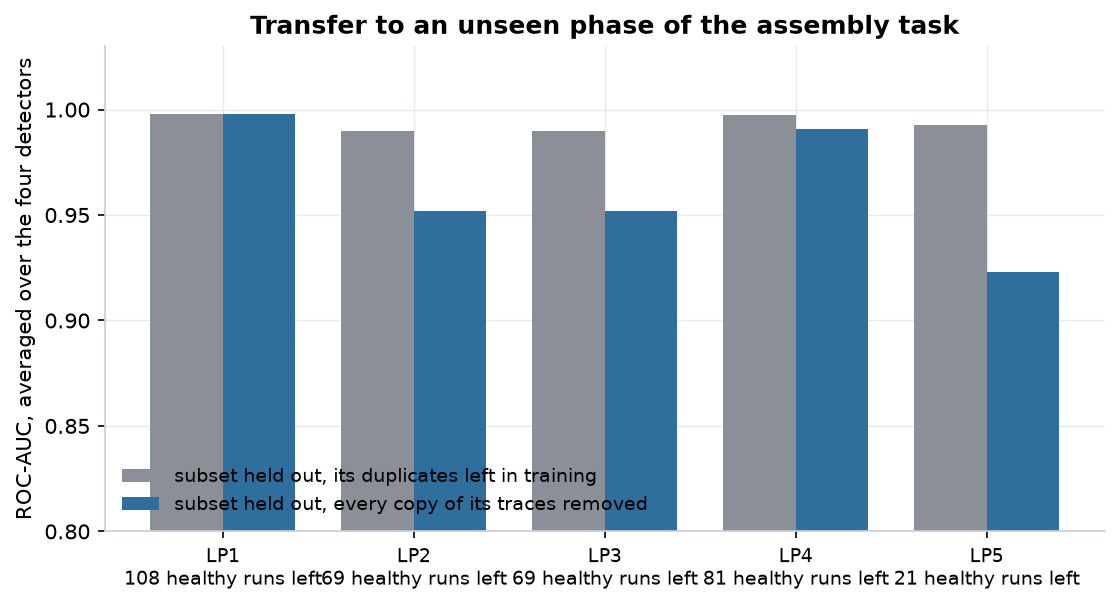
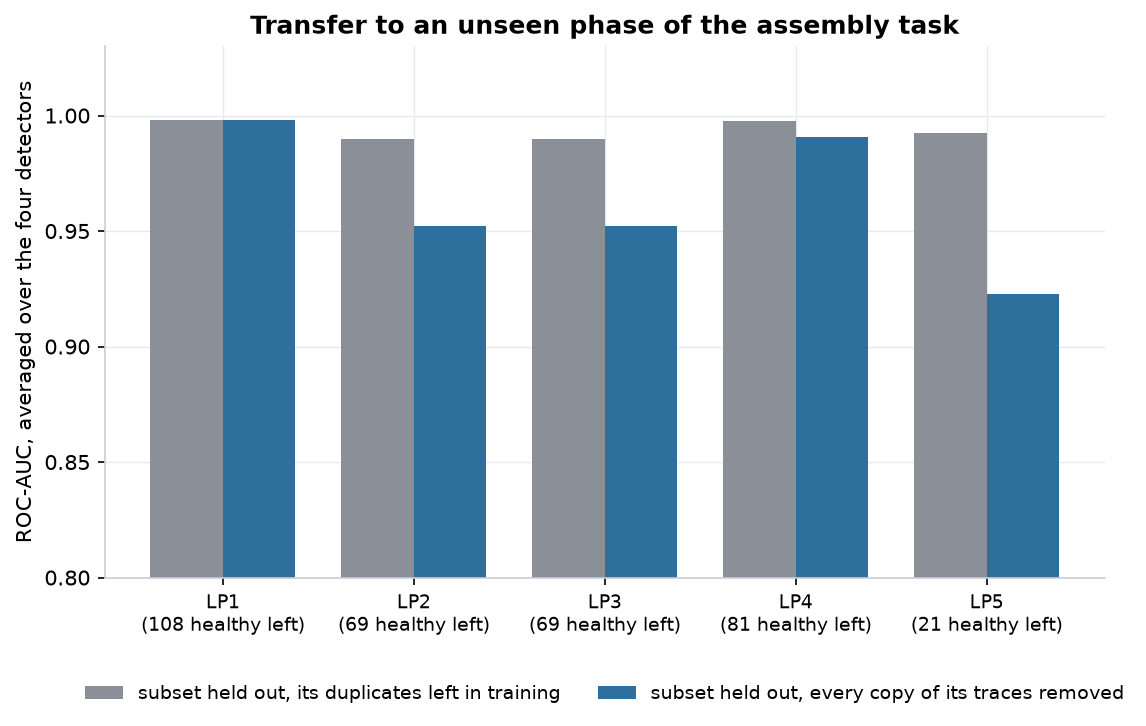
fix(figures): la courbe ROC ne montrait rien, remplacée par ce qui explique le résultat
Les quatre détecteurs atteignent 1,000 de ROC-AUC, donc la figure était quatre
angles droits superposés dont un seul visible. Elle avait l'air d'un bug et ne
disait rien.

À la place : chaque score divisé par le seuil d'alarme de son propre détecteur,
en log, alarme à 1,0 sur les quatre panneaux. On y lit d'un coup pourquoi
Isolation Forest rate la moitié des pannes au p95, ses défaillances tombent PILE
sur la ligne, quand les trois autres les placent 10 à 100 000 fois au-dessus.

Le clipping des scores négatifs de One-Class SVM est signalé dans la docstring
plutôt que caché : les points sont écrasés au bas du panneau, pas retirés.

Deux légendes qui recouvraient les données déplacées sous l'axe, et les
étiquettes du transfert qui se chevauchaient raccourcies.

Changed region(s): [[0.0, 0.0891, 1.0, 0.9802], [0.2127, 0.0, 0.8811, 0.0594]]

diff --git a/scripts/figures.py b/scripts/figures.py
@@ -33,7 +33,6 @@ import matplotlib.pyplot as plt
 import numpy as np
 from matplotlib.patches import Patch
 from sklearn.ensemble import RandomForestClassifier
-from sklearn.metrics import precision_recall_curve, roc_curve
 from sklearn.pipeline import Pipeline
 from sklearn.preprocessing import StandardScaler
 
@@ -255,7 +254,7 @@ def figure_duplicate_leak(benchmark: dict, out: Path) -> None:
     axis.set_xticks(position)
     axis.set_xticklabels([PRETTY.get(name, name) for name in names], fontsize=9)
     axis.set_ylim(0.85, 1.045)
-    axis.set_ylabel("cross-validated F1, anomaly class")
+    axis.set_ylabel("cross-validated F1, failure class")
     axis.set_title("What 212 duplicated executions were worth")
     axis.legend(loc="lower left")
     figure.savefig(out / "duplicate-leak.png")
@@ -344,39 +343,52 @@ def figure_threshold(experiments: dict, out: Path) -> None:
     plt.close(figure)
 
 
-def figure_curves(split, detectors, out: Path) -> None:
-    """ROC and precision-recall for the four detectors, on the grouped test set."""
-    figure, axes = plt.subplots(1, 2, figsize=(10.4, 4.4))
-    palette = {
-        "isolation_forest": ANOMALY,
-        "one_class_svm": HEALTHY,
-        "pca_reconstruction": ACCENT,
-        "mahalanobis": DARK,
-    }
-    for detector in detectors:
-        scores = detector.anomaly_score(split.X_test)
-        fpr, tpr, _ = roc_curve(split.y_test, scores)
-        precision, recall, _ = precision_recall_curve(split.y_test, scores)
-        axes[0].plot(
-            fpr, tpr, linewidth=1.8, color=palette[detector.name], label=PRETTY[detector.name]
-        )
-        axes[1].plot(recall, precision, linewidth=1.8, color=palette[detector.name])
+def figure_score_distributions(split, detectors, out: Path) -> None:
+    """Why four detectors that rank identically well score so differently.
 
-    axes[0].plot([0, 1], [0, 1], linestyle=":", color=GREY, linewidth=1)
-    axes[0].set_xlabel("false positive rate")
-    axes[0].set_ylabel("true positive rate")
-    axes[0].set_title("ROC")
-    axes[0].legend(loc="lower right", fontsize=9)
+    A ROC curve would be four overlapping right angles here, since every
+    detector reaches 1.000, and it would say nothing. What separates them is
+    where their alarm threshold lands inside their own score distribution, so
+    that is what this draws: every score divided by its detector's threshold, on
+    a log axis, with the alarm at 1.0 on all four panels.
 
-    share = float(split.y_test.mean())
-    axes[1].axhline(share, linestyle=":", color=GREY, linewidth=1)
-    axes[1].text(0.02, share + 0.01, f"always anomaly ({share:.2f})", fontsize=8, color=GREY)
-    axes[1].set_xlabel("recall")
-    axes[1].set_ylabel("precision")
-    axes[1].set_title("Precision-recall")
-    figure.suptitle("One-class detectors on 93 unseen executions, no failure seen in training")
+    Read it as: anything above the line is flagged. A detector whose healthy
+    test scores sit above 1.0 raises false alarms even though its ranking is
+    perfect, and a detector whose failures sit below it misses them.
+
+    One-Class SVM's decision function goes negative well inside its boundary, so
+    a ratio there is negative and meaningless on a log axis. Those points are
+    clipped to the bottom of the panel rather than dropped, which keeps the
+    count honest at the cost of a flat row of markers.
+    """
+    figure, axes = plt.subplots(1, 4, figsize=(12.4, 4.0), sharey=True)
+    generator = np.random.default_rng(0)
+
+    for axis, detector in zip(axes, detectors, strict=True):
+        groups = [
+            ("healthy\ntraining", detector.train_scores_, HEALTHY),
+            ("healthy\nheld out", detector.anomaly_score(split.X_test[split.y_test == 0]), ACCENT),
+            ("failed\nheld out", detector.anomaly_score(split.X_test[split.y_test == 1]), ANOMALY),
+        ]
+        for position, (_label, values, color) in enumerate(groups):
+            ratio = np.clip(values / detector.threshold_, 1e-3, None)
+            jitter = generator.uniform(-0.16, 0.16, size=len(ratio))
+            axis.scatter(position + jitter, ratio, s=13, color=color, alpha=0.7, zorder=3)
+
+        axis.axhline(1.0, color=DARK, linestyle="--", linewidth=1.1, zorder=2)
+        axis.set_yscale("log")
+        axis.set_xticks(range(3), [group[0] for group in groups], fontsize=8)
+        axis.set_xlim(-0.6, 2.6)
+        axis.set_title(PRETTY[detector.name], fontsize=10)
+        axis.grid(axis="x", visible=False)
+
+    axes[0].set_ylabel("anomaly score, as a multiple of the alarm threshold")
+    figure.suptitle(
+        "Every detector ranks perfectly. The alarm line lands in a different place in each",
+        y=1.02,
+    )
     figure.tight_layout()
-    figure.savefig(out / "roc-pr-curves.png")
+    figure.savefig(out / "score-distributions.png")
     plt.close(figure)
 
 
@@ -453,7 +465,7 @@ def figure_transfer(experiments: dict, out: Path) -> None:
     naive_values = [best(naive, subset) for subset in subsets] if naive else None
     disjoint_values = [best(disjoint, subset) for subset in subsets]
 
-    figure, axis = plt.subplots(figsize=(8.6, 4.2))
+    figure, axis = plt.subplots(figsize=(8.6, 4.6))
     if naive_values:
         axis.bar(
             position - width / 2,
@@ -471,16 +483,13 @@ def figure_transfer(experiments: dict, out: Path) -> None:
     )
     axis.set_xticks(position)
     axis.set_xticklabels(
-        [
-            f"{subset}\n{disjoint[subset]['n_train_healthy']} healthy runs left"
-            for subset in subsets
-        ],
+        [f"{subset}\n({disjoint[subset]['n_train_healthy']} healthy left)" for subset in subsets],
         fontsize=9,
     )
     axis.set_ylim(0.8, 1.03)
     axis.set_ylabel("ROC-AUC, averaged over the four detectors")
     axis.set_title("Transfer to an unseen phase of the assembly task")
-    axis.legend(loc="lower left", fontsize=9)
+    axis.legend(loc="upper center", bbox_to_anchor=(0.5, -0.17), ncol=2, fontsize=9)
     figure.savefig(out / "transfer-across-subsets.png")
     plt.close(figure)
 
@@ -543,7 +552,7 @@ def main() -> int:
     figure_duplicate_leak(benchmark, args.output)
     figure_comparison(benchmark, experiments, args.output)
     figure_threshold(experiments, args.output)
-    figure_curves(split, detectors, args.output)
+    figure_score_distributions(split, detectors, args.output)
     figure_confusion(split, detectors, args.output)
     figure_transfer(experiments, args.output)
     figure_importance(split, columns, args.output)

diff --git a/README.md b/README.md
@@ -189,7 +189,14 @@ Isolation Forest is the extreme case: 1.000 at the 90th percentile, 0.660 at the
 monotonically towards the 99th. Choosing the detector and choosing the threshold
 rule are the same decision.
 
-![ROC and precision-recall for the four detectors](assets/roc-pr-curves.png)
+![Anomaly scores relative to each detector's alarm threshold](assets/score-distributions.png)
+
+All four reach ROC-AUC 1.000, so their ROC curves are four identical right
+angles and are not worth drawing. What separates them is the figure above: every
+score divided by its own detector's alarm threshold, with the alarm at 1.0 on
+each panel. Isolation Forest puts its failures *at* the line, which is why it
+misses half of them at the 95th percentile. The other three put failures one to
+five orders of magnitude above it.
 
 ### The benchmark contains duplicates, and they made the scores perfect
 
